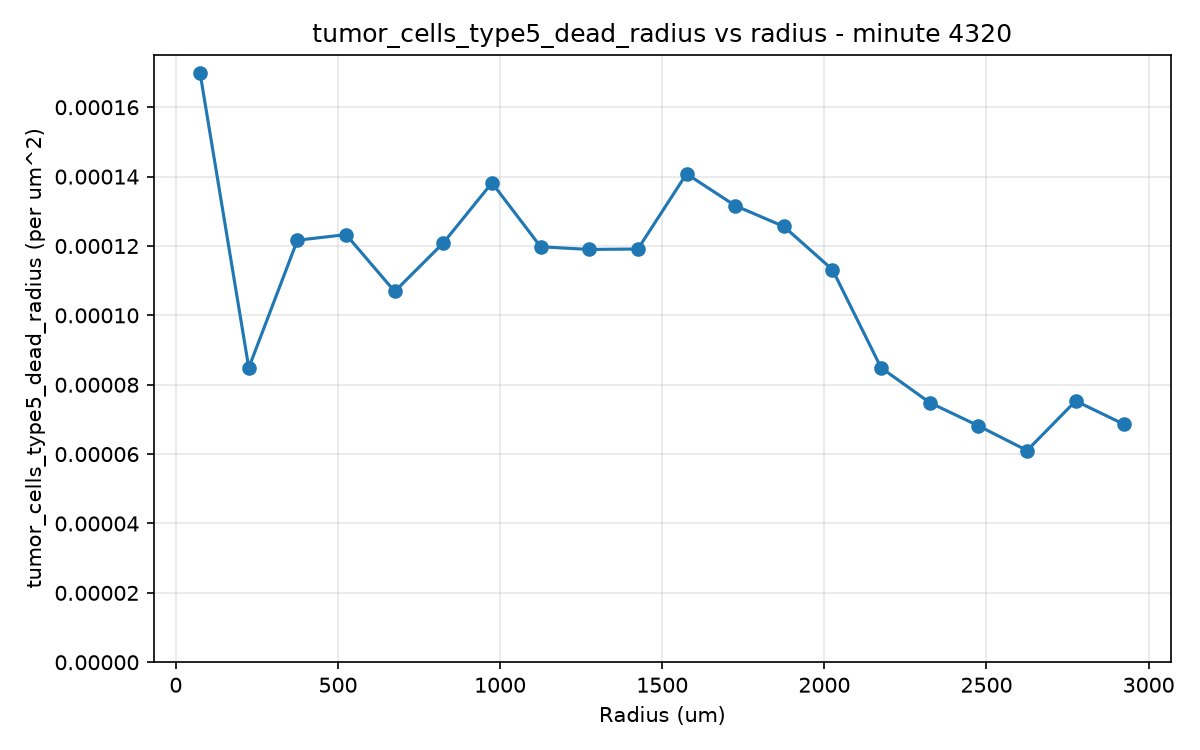
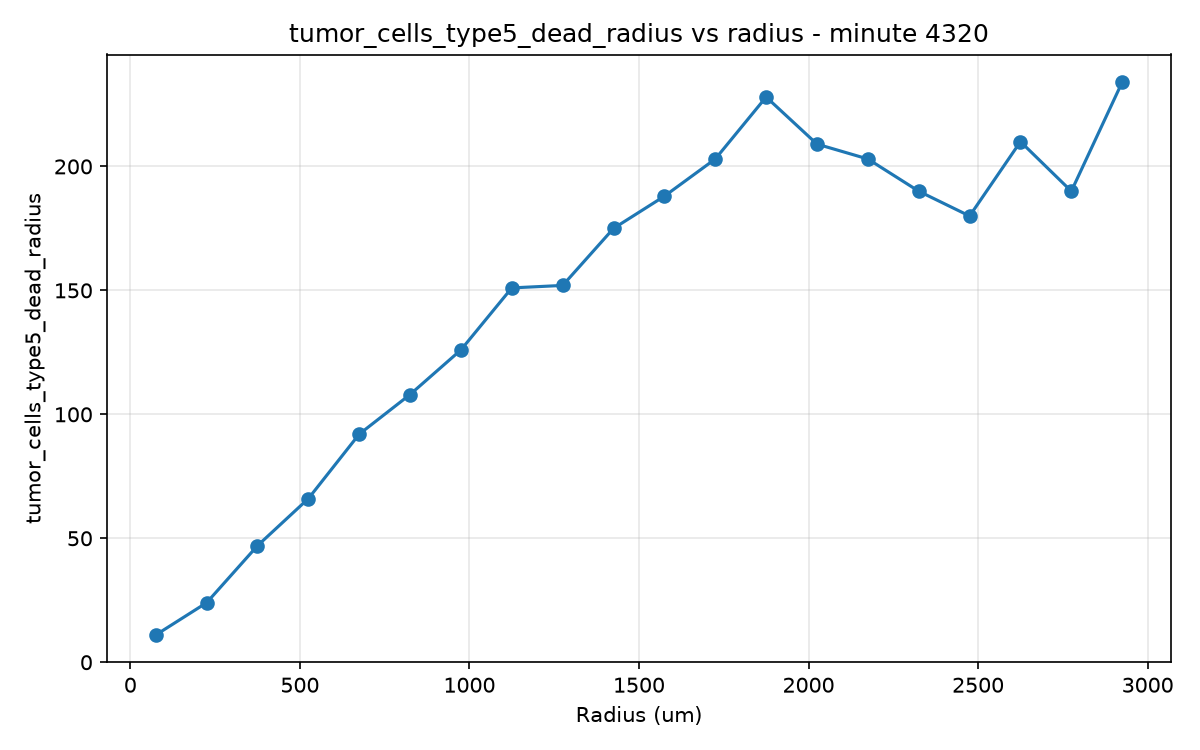
new physical barriers to avoid cell movement outside the cilinder boundaries z and generalization of CART cell spwan

diff --git a/draft/experimentation.py b/draft/experimentation.py
@@ -40,41 +40,43 @@ DRAFT_DIR = BASE_DIR / "draft"       # base destination folder
 
 def run_ABM(seed):
 
-    config = {
-        "seed": seed,
-        "output_performance_statistics": False,
-        "total_minutes_to_simulate": 4320,
-        "output_csv_interval": 600,
-        "bounded_space_length": 6500.0,
-        "tumor_shape": "cylinder",
-        "output_information_dependent_on_radius": True,
-        "cylindrical_tumor_radius": 3000.0,
-        "max_radius_analysis_csv_dependent_on_radius": 3000.0,
-        "num_radius_intervals": 20,
-        "cylindrical_tumor_height": 100.0,
-        "initial_number_of_cylindrical_tumor_cells": 28000,
-        "oncoprotein_mean": 1.0,
-        "oncoprotein_standard_deviation": 0.0,
-        "lateral_oxygen_production_min_z": -6600.0,
-        "lateral_oxygen_production_max_z": 6600.0,
-        "diffuse_on_z_axis": True,
-        "initial_oxygen_level": 0.0,
-        "oxygen_reference_level": 165.0,
-        "default_oxygen_consumption_tumor_cell": 45.6,
-        "diffusion_coefficient_oxygen": 180000.0,
-        "decay_constant_oxygen": 0.01,
-        "time_apoptosis": 6000.0,
-        "treatment": {"0": 0},
-        "average_time_transformation_random_rate": 72.0,
-        "standard_deviation_transformation_random_rate": 15.0,
-        "oxygen_saturation_for_proliferation": 0,
-        "oxygen_limit_for_proliferation": 0,
-        "oxygen_limit_for_necrosis_maximum": 0.0,
-        "oxygen_limit_for_necrosis": 0.0,
-        "reduction_consumption_dead_cells": 0.0,
-        "basal_necrosis_probability_cancer_cells": 0.0000166,
-        "nutrient_starvation_factor_cancer_cells": 1.00,
-        "dt_substances": 4320
+    config={
+    "seed": seed,
+    "output_performance_statistics": False,
+    "total_minutes_to_simulate": 4320,
+    "output_csv_interval": 600,
+    "bounded_space_length": 6500.0,
+    "tumor_shape": "cylinder",
+    "output_information_dependent_on_radius": True,
+    "cylindrical_tumor_radius": 3000.0,
+    "max_radius_analysis_csv_dependent_on_radius": 3000.0,
+    "num_radius_intervals": 20,
+    "cylindrical_tumor_height": 100.0,
+    "initial_number_of_cylindrical_tumor_cells": 28000,
+    "oncoprotein_mean": 1.0,
+    "oncoprotein_standard_deviation": 0.0,
+    "lateral_oxygen_production_min_z": -300.0,
+    "lateral_oxygen_production_max_z": 300.0,
+    "diffuse_on_z_axis": False,
+    "initial_oxygen_level": 0.0,
+    "oxygen_reference_level": 165.0,
+    "default_oxygen_consumption_tumor_cell": 45.6,
+    "diffusion_coefficient_oxygen": 180000.0,
+    "decay_constant_oxygen": 0.01,
+    "time_apoptosis": 6000.0,
+    "treatment": {
+        "0": 0
+    },
+    "average_time_transformation_random_rate": 72.0,
+    "standard_deviation_transformation_random_rate": 15.0,
+    "oxygen_saturation_for_proliferation": 13.74,
+    "oxygen_limit_for_proliferation": 5.9,
+    "oxygen_limit_for_necrosis_maximum": 0.0,
+    "oxygen_limit_for_necrosis": 45.0,
+    "maximum_necrosis_rate": 0.0000216,
+    "reduction_consumption_dead_cells": 0.0,
+    "basal_necrosis_probability_cancer_cells": 0.0000166,
+    "nutrient_starvation_factor_cancer_cells": 1.00
     }
 
     # Save the config parameters for this run to the params.json file

diff --git a/src/utils/utils_aux.cc b/src/utils/utils_aux.cc
@@ -438,16 +438,27 @@ void SpawnCart::operator()() {
     // compute tumor radius
     ResourceManager* rm = simulation->GetResourceManager();
     real_t max_dist_sq = 0.0;
+    bool tumor_shape_is_cylindrical = sparams->tumor_shape == "cylinder";
+    bool tumor_shape_is_spherical = sparams->tumor_shape == "sphere";
 
     rm->ForEachAgent([&](const Agent* agent) {
       if (const auto* cancer_cell = dynamic_cast<const TumorCell*>(agent)) {
+        // Compute the distance to the center depending on the tumor shape
+        real_t dist_sq = 0.0;
         const Real3& pos = cancer_cell->GetPosition();
-        const real_t dist_sq =
-            pos[0] * pos[0] + pos[1] * pos[1] + pos[2] * pos[2];
+        if (tumor_shape_is_cylindrical) {
+          // Only consider x and y for cylindrical rumor, distance to the axis of the cylinder
+          dist_sq = pos[0] * pos[0] + pos[1] * pos[1];  
+        } else if (tumor_shape_is_spherical) {
+          // Consider all three dimensions for spherical radius
+          dist_sq = pos[0] * pos[0] + pos[1] * pos[1] + pos[2] * pos[2];  
+        } else{
+          Log::Error("SpawnCart", "Unknown tumor shape, please use 'sphere' or 'cylinder'.");
+        }
         if (dist_sq > max_dist_sq) {
           max_dist_sq = dist_sq;
         }
-      }
+      } 
     });
 
     // the car-t spawns at least
@@ -461,8 +472,11 @@ void SpawnCart::operator()() {
     // for generating car-t positions
     Random* rng = simulation->GetRandom();
     const Param* param = simulation->GetParam();
+    const auto* sparams = param->Get<SimParam>();
     const real_t min_b = param->min_bound;
     const real_t max_b = param->max_bound;
+    const real_t min_bz = sparams->bounded_space_min_allowed_z;
+    const real_t max_bz = sparams->bounded_space_max_allowed_z;
     real_t px = 0.0;
     real_t py = 0.0;
     real_t pz = 0.0;
@@ -475,8 +489,16 @@ void SpawnCart::operator()() {
       while (true) {
         px = rng->Uniform(min_b, max_b);
         py = rng->Uniform(min_b, max_b);
-        pz = rng->Uniform(min_b, max_b);
-        radi_sq = px * px + py * py + pz * pz;
+        pz = rng->Uniform(min_bz, max_bz);
+        if (tumor_shape_is_cylindrical) {
+          // Only consider x and y for cylindrical rumor, distance to the axis of the cylinder
+          radi_sq = px * px + py * py; 
+        } else if (tumor_shape_is_spherical) {
+          // Consider all three dimensions for spherical radius
+          radi_sq = px * px + py * py + pz * pz; 
+        } else{
+          Log::Error("SpawnCart", "Unknown tumor shape, please use 'sphere' or 'cylinder'.");
+        } 
         if (radi_sq >= minimum_squared_radius) {
           break;
         }

diff --git a/src/params/hyperparams.cc b/src/params/hyperparams.cc
@@ -80,13 +80,25 @@ void SimParam::LoadParams(const std::string& filename) {
   load_bool("output_performance_statistics", output_performance_statistics);
   load_int("total_minutes_to_simulate", total_minutes_to_simulate);
   load_string("tumor_shape", tumor_shape);
-  load_double("initial_spherical_tumor_radius", initial_spherical_tumor_radius);
-  load_double("cylindrical_tumor_radius", cylindrical_tumor_radius);
-  load_double("cylindrical_tumor_height", cylindrical_tumor_height);
   load_int("initial_number_of_cylindrical_tumor_cells",
            initial_number_of_cylindrical_tumor_cells);
   load_int("bounded_space_length", bounded_space_length);
 
+  load_double("initial_spherical_tumor_radius", initial_spherical_tumor_radius);
+  load_double("cylindrical_tumor_radius", cylindrical_tumor_radius);
+  load_double("cylindrical_tumor_height", cylindrical_tumor_height);
+  
+  if (jfile.contains("bounded_space_min_allowed_z")) {
+    bounded_space_min_allowed_z = jfile["bounded_space_min_allowed_z"].get<double>();
+  } else {
+    bounded_space_min_allowed_z = -bounded_space_length/2;
+  }
+  if (jfile.contains("bounded_space_max_allowed_z")) {
+    bounded_space_max_allowed_z = jfile["bounded_space_max_allowed_z"].get<double>();
+  } else {
+    bounded_space_max_allowed_z = bounded_space_length/2;
+  }
+  
   if (jfile.contains("treatment")) {
     treatment.clear();
     // Parse the JSON object to handle string keys
@@ -363,6 +375,10 @@ void SimParam::PrintParams() const {
               << cylindrical_tumor_radius << "\n";
     std::cout << "Initial height of the cylindrical tumor (micrometers): "
               << cylindrical_tumor_height << "\n";
+    std::cout << "Min allowed Z coordinate for cells (micrometers): "
+              << bounded_space_min_allowed_z << "\n";
+    std::cout << "Max allowed Z coordinate for cells (micrometers): "
+              << bounded_space_max_allowed_z << "\n";
     std::cout << "Initial number of cylindrical tumor cells: "
               << initial_number_of_cylindrical_tumor_cells << "\n";
   }

diff --git a/src/params/hyperparams.h b/src/params/hyperparams.h
@@ -93,6 +93,12 @@ struct SimParam : public ParamGroup {
   /// Initial height of the cylindrical tumor in micrometers
   // NOLINTNEXTLINE(cppcoreguidelines-avoid-magic-numbers,readability-magic-numbers)
   real_t cylindrical_tumor_height = 100;
+  /// Min allowed Z coordinate for cells. Used for cylindrical tumors with phisical barriers. By default it is automatically set to -bounded_space_length/2 to avoid any restrictions.
+  // NOLINTNEXTLINE(cppcoreguidelines-avoid-magic-numbers,readability-magic-numbers)
+  real_t bounded_space_min_allowed_z = -500;
+  /// Max allowed Z coordinate for cells. Used for cylindrical tumors with phisical barriers. By default it is automatically set to bounded_space_length/2 to avoid any restrictions.
+  // NOLINTNEXTLINE(cppcoreguidelines-avoid-magic-numbers,readability-magic-numbers)
+  real_t bounded_space_max_allowed_z = 500;
   /// Initial number of cylindrical tumor cells
   // NOLINTNEXTLINE(cppcoreguidelines-avoid-magic-numbers,readability-magic-numbers)
   int initial_number_of_cylindrical_tumor_cells = 2800;

diff --git a/draft/analysis_radius_atribute.py b/draft/analysis_radius_atribute.py
@@ -38,7 +38,7 @@ ATTRIBUTE = "tumor_cells_type5_dead_radius"  # change this to the attribute you 
 DIVIDING_FACTOR = 1  # change this to the factor you want to divide by. Use 525 to pass from mmHg to mol/m3
 # other examples: "average_oncoprotein_radius", "average_oxygen_cancer_cells_radius",
 # "num_alive_cells_radius", "num_alive_tumor_cells_radius", etc.
-APPLY_RADIAL_NORMALIZATION = True  # change this to True if you want to apply radial normalization to the attribute
+APPLY_RADIAL_NORMALIZATION = False  # change this to True if you want to apply radial normalization to the attribute
 # APPLY_RADIAL_NORMALIZATION = True  # change this to True if you want to apply radial normalization to the attribute
 Y_MIN = 0
 Y_MAX = None

diff --git a/src/agents/tumor_cell.cc b/src/agents/tumor_cell.cc
@@ -307,6 +307,19 @@ Real3 TumorCell::CalculateDisplacement(const InteractionForce* force,
 
   older_velocity_ = translation_velocity_on_point_mass;
 
+  // Clamp the movement if it surpasses the z boundaries.
+  Real3 current_position = GetPosition();
+  const double current_z = current_position[2];
+  double& movement_z = movement_at_next_step[2];
+  const double min_z = sparams->bounded_space_min_allowed_z;
+  const double max_z = sparams->bounded_space_max_allowed_z;
+  const double next_z = current_z + movement_z;
+  if (next_z < min_z) {
+      movement_z = min_z - current_z;
+  } else if (next_z > max_z) {
+      movement_z = max_z - current_z;
+  }
+
   // Displacement
   return movement_at_next_step;
 }

diff --git a/src/agents/cart_cell.cc b/src/agents/cart_cell.cc
@@ -280,6 +280,18 @@ Real3 CarTCell::CalculateDisplacement(const InteractionForce* force,
 
   older_velocity_ = translation_velocity_on_point_mass;
 
+  // Clamp the movement if it surpasses the z boundaries.
+  const double current_z = current_position[2];
+  double& movement_z = movement_at_next_step[2];
+  const double min_z = sparams->bounded_space_min_allowed_z;
+  const double max_z = sparams->bounded_space_max_allowed_z;
+  const double next_z = current_z + movement_z;
+  if (next_z < min_z) {
+      movement_z = min_z - current_z;
+  } else if (next_z > max_z) {
+      movement_z = max_z - current_z;
+  }
+
   // Displacement
   return movement_at_next_step;
 }
